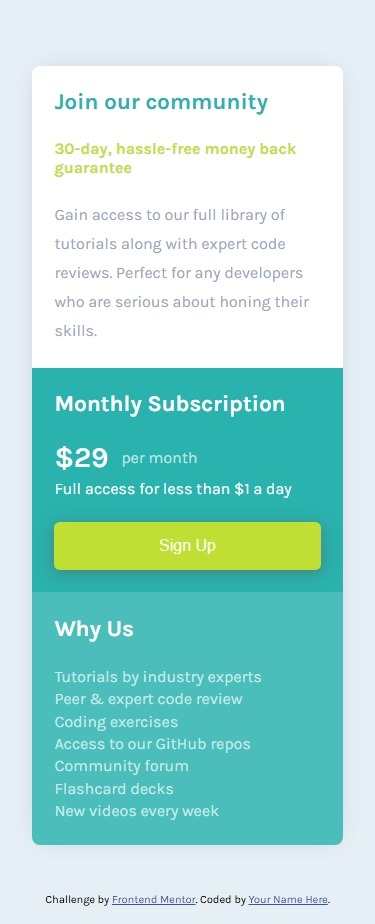
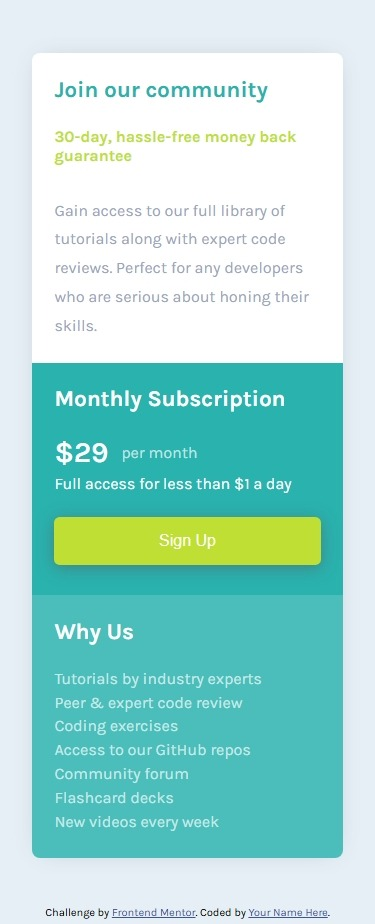
feat: adjust HTML structure and CSS styles.

diff --git a/single-price-grid-component/style.css b/single-price-grid-component/style.css
@@ -6,10 +6,12 @@
 :root {
     --teal-500: hsl(179, 62%, 43%);
     --green-400: hsl(71, 73%, 54%);
+    --green-400-hover: hsl(71, 73%, 48%);;
     --teal-100: hsl(204, 43%, 93%);
     --teal-300: hsl(179, 47%, 52%);
     --gray-500: hsl(218, 22%, 67%);
     --gray-100: hsla(0, 0%, 100%, 0.7);
+    --white: #ffffff;
 }
 body {
     align-items: center;
@@ -43,15 +45,15 @@ h3 {
 }
 /* community */
 #community {
-    background-color: white;
+    background-color: var(--white);
 }
-#community h2 {
+#community-title {
     color: var(--teal-500);
 
 }
 #community h3 {
     color: var(--green-400);
-    margin-bottom: 1.5rem;
+    margin-bottom: 2rem;
 }
 #community p {
     color: var(--gray-500);
@@ -60,7 +62,7 @@ h3 {
 /* subscription */
 #subscription {
     background-color: var(--teal-500);
-    color: white;
+    color: var(--white);
 }
 
 .price {
@@ -69,8 +71,8 @@ h3 {
     display: flex;
     margin-bottom: .3rem;
 }
-.price span {
-    color: white;
+.price .num {
+    color: var(--white);
     font-weight: 600;
     font-size: 1.8rem;
     margin-right: .8rem;
@@ -79,26 +81,47 @@ h3 {
 #subscription p {
     margin-bottom: 1.5rem;
 }
-#subscription button {
+.button {
     background-color: var(--green-400);
     border: none;
     border-radius: .35rem;
     box-shadow: 0px 3px 16px 0px rgba(87, 87, 87, 0.5);
-    color: white;
+    color: var(--white);
     cursor: pointer;
     display: block;
     font-size: 1rem;
     height: 3rem;
+    margin-bottom: .5rem;
+    transition: background-color 0.2s ease, transform 0.2s ease;
     width: 100%;
+}
+.button:hover {
+    background-color: var(--green-400-hover);
+}
+
+.button:focus {
+    outline: 3px solid var(--white);
+    outline-offset: 2px;
+}
+
+.button:active {
+    transform: translateY(1px);
 }
 #why {
     background-color: var(--teal-300);
-    color: white;
+    color: var(--white);
 }
 #why p {
     line-height: 1.4;
     color: var(--gray-100);
 
+}
+.feature-list {
+    list-style: none;
+}
+.feature-list li {
+    color: var(--gray-100);
+    margin-bottom: .3rem;
 }
 @media (min-width: 768px ) {
     main {
@@ -111,5 +134,8 @@ h3 {
     }
     #community {
         grid-column: 1 / 3;
+    }
+    #subscription p {
+        margin-bottom: 2.5rem;
     }
 }

diff --git a/single-price-grid-component/index.html b/single-price-grid-component/index.html
@@ -19,35 +19,34 @@
 </head>
 <body>
   <main>
-    <section id="community">
-      <h2>Join our community</h1>
-      <h3>30-day, hassle-free money back guarantee</h2>
+    <section id="community" aria-describedby="community-title">
+      <h2 id="community-title">Join our community</h2>
+      <h3>30-day, hassle-free money back guarantee</h3>
       <p>Gain access to our full library of tutorials along with expert code reviews. 
           Perfect for any developers who are serious about honing their skills.</p>
     </section>
-    <section id="subscription">
-        <h2>Monthly Subscription</h1>
-        <div class="price">
-          <span>
+    <section id="subscription" aria-describedby="subscription-title">
+        <h2 id="subscription-title">Monthly Subscription</h2>
+        <div class="price" aria-label="$29 per month">
+          <span class="num">
             &dollar;29
           </span>
-          per month
+          <span class="per">per month</span>
         </div>
-        <p>Full access for less than &dollar;1 a day</p>
-        <button>Sign Up</button>
+        <p  id="subscription-desc">Full access for less than &dollar;1 a day</p>
+        <button class="button" aria-describedby="subscription-desc">Sign Up</button>
     </section>
-    <section id="why">
-      <h2>Why Us</h1>
-      <p>
-        Tutorials by industry experts<br>
-        Peer &amp; expert code review<br>
-        Coding exercises<br>
-        Access to our GitHub repos<br>
-        Community forum<br>
-        Flashcard decks<br>
-        New videos every week
-      </p>
-
+    <section id="why" aria-labelledby="why-title">
+      <h2 id="why-title">Why Us</h2>
+      <ul class="feature-list">
+        <li>Tutorials by industry experts</li>
+        <li>Peer &amp; expert code review</li>
+        <li>Coding exercises</li>
+        <li>Access to our GitHub repos</li>
+        <li>Community forum</li>
+        <li>Flashcard decks</li>
+        <li>New videos every week</li>
+      </ul>
     </section>
   </main>
 
